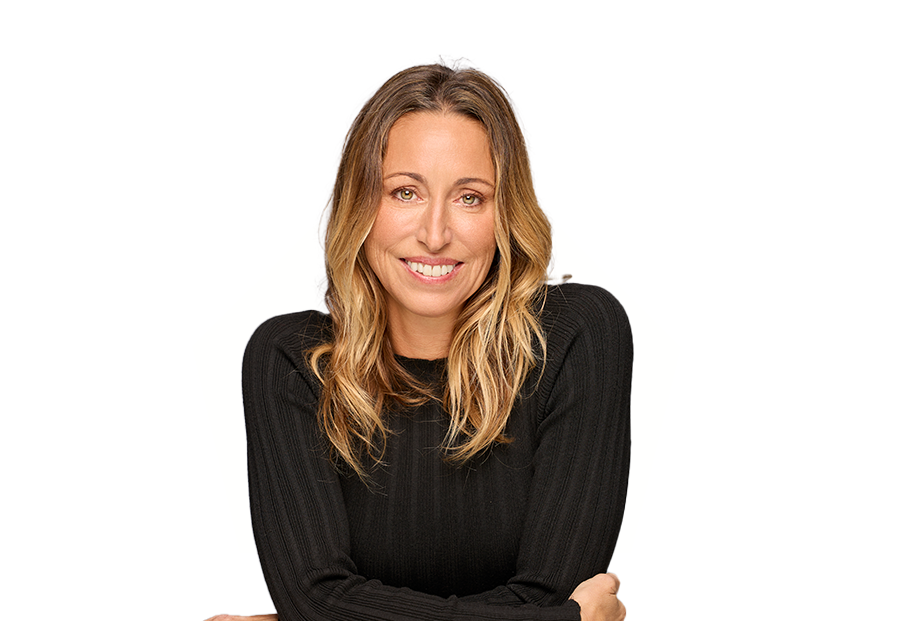
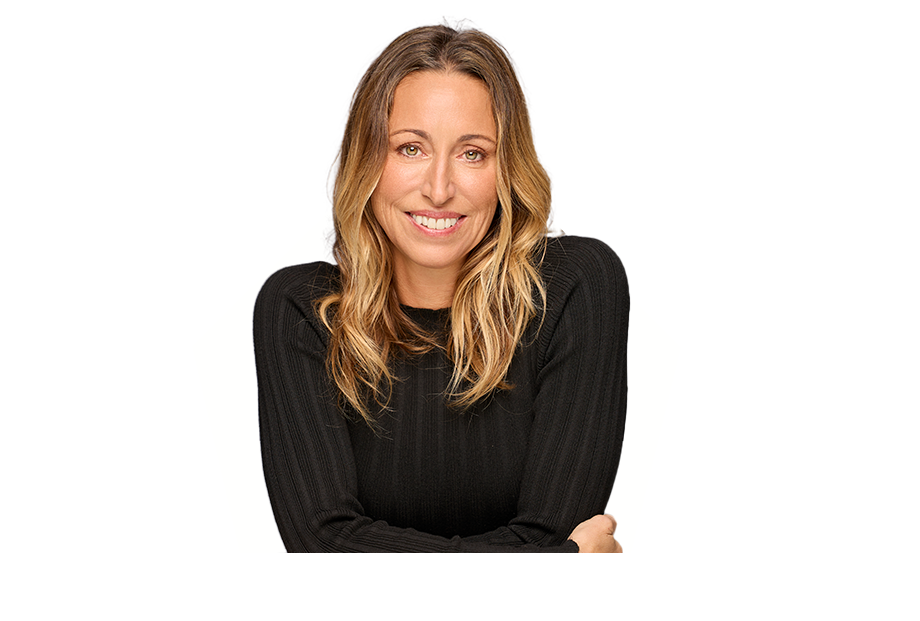
Refactor code structure for improved readability and maintainability

Changed region(s): [[0.213, 0.0306, 0.7, 1.0]]

diff --git a/index.php b/index.php
@@ -611,7 +611,7 @@
                                 <div class="row align-items-center">
                                     <div class="col-xl-4 col-lg-5">
                                         <div class="td-schedule-3-thumb p-relative">
-                                            <img class="w-100" src="assets/img/schedule/schedule-3/schedule.jpg" alt="">
+                                            <img class="w-100" src="assets/img/schedule/angel_leon.png" alt="Ángel León">
                                         </div>
                                     </div>
                                     <div class="col-xl-8 col-lg-7">
